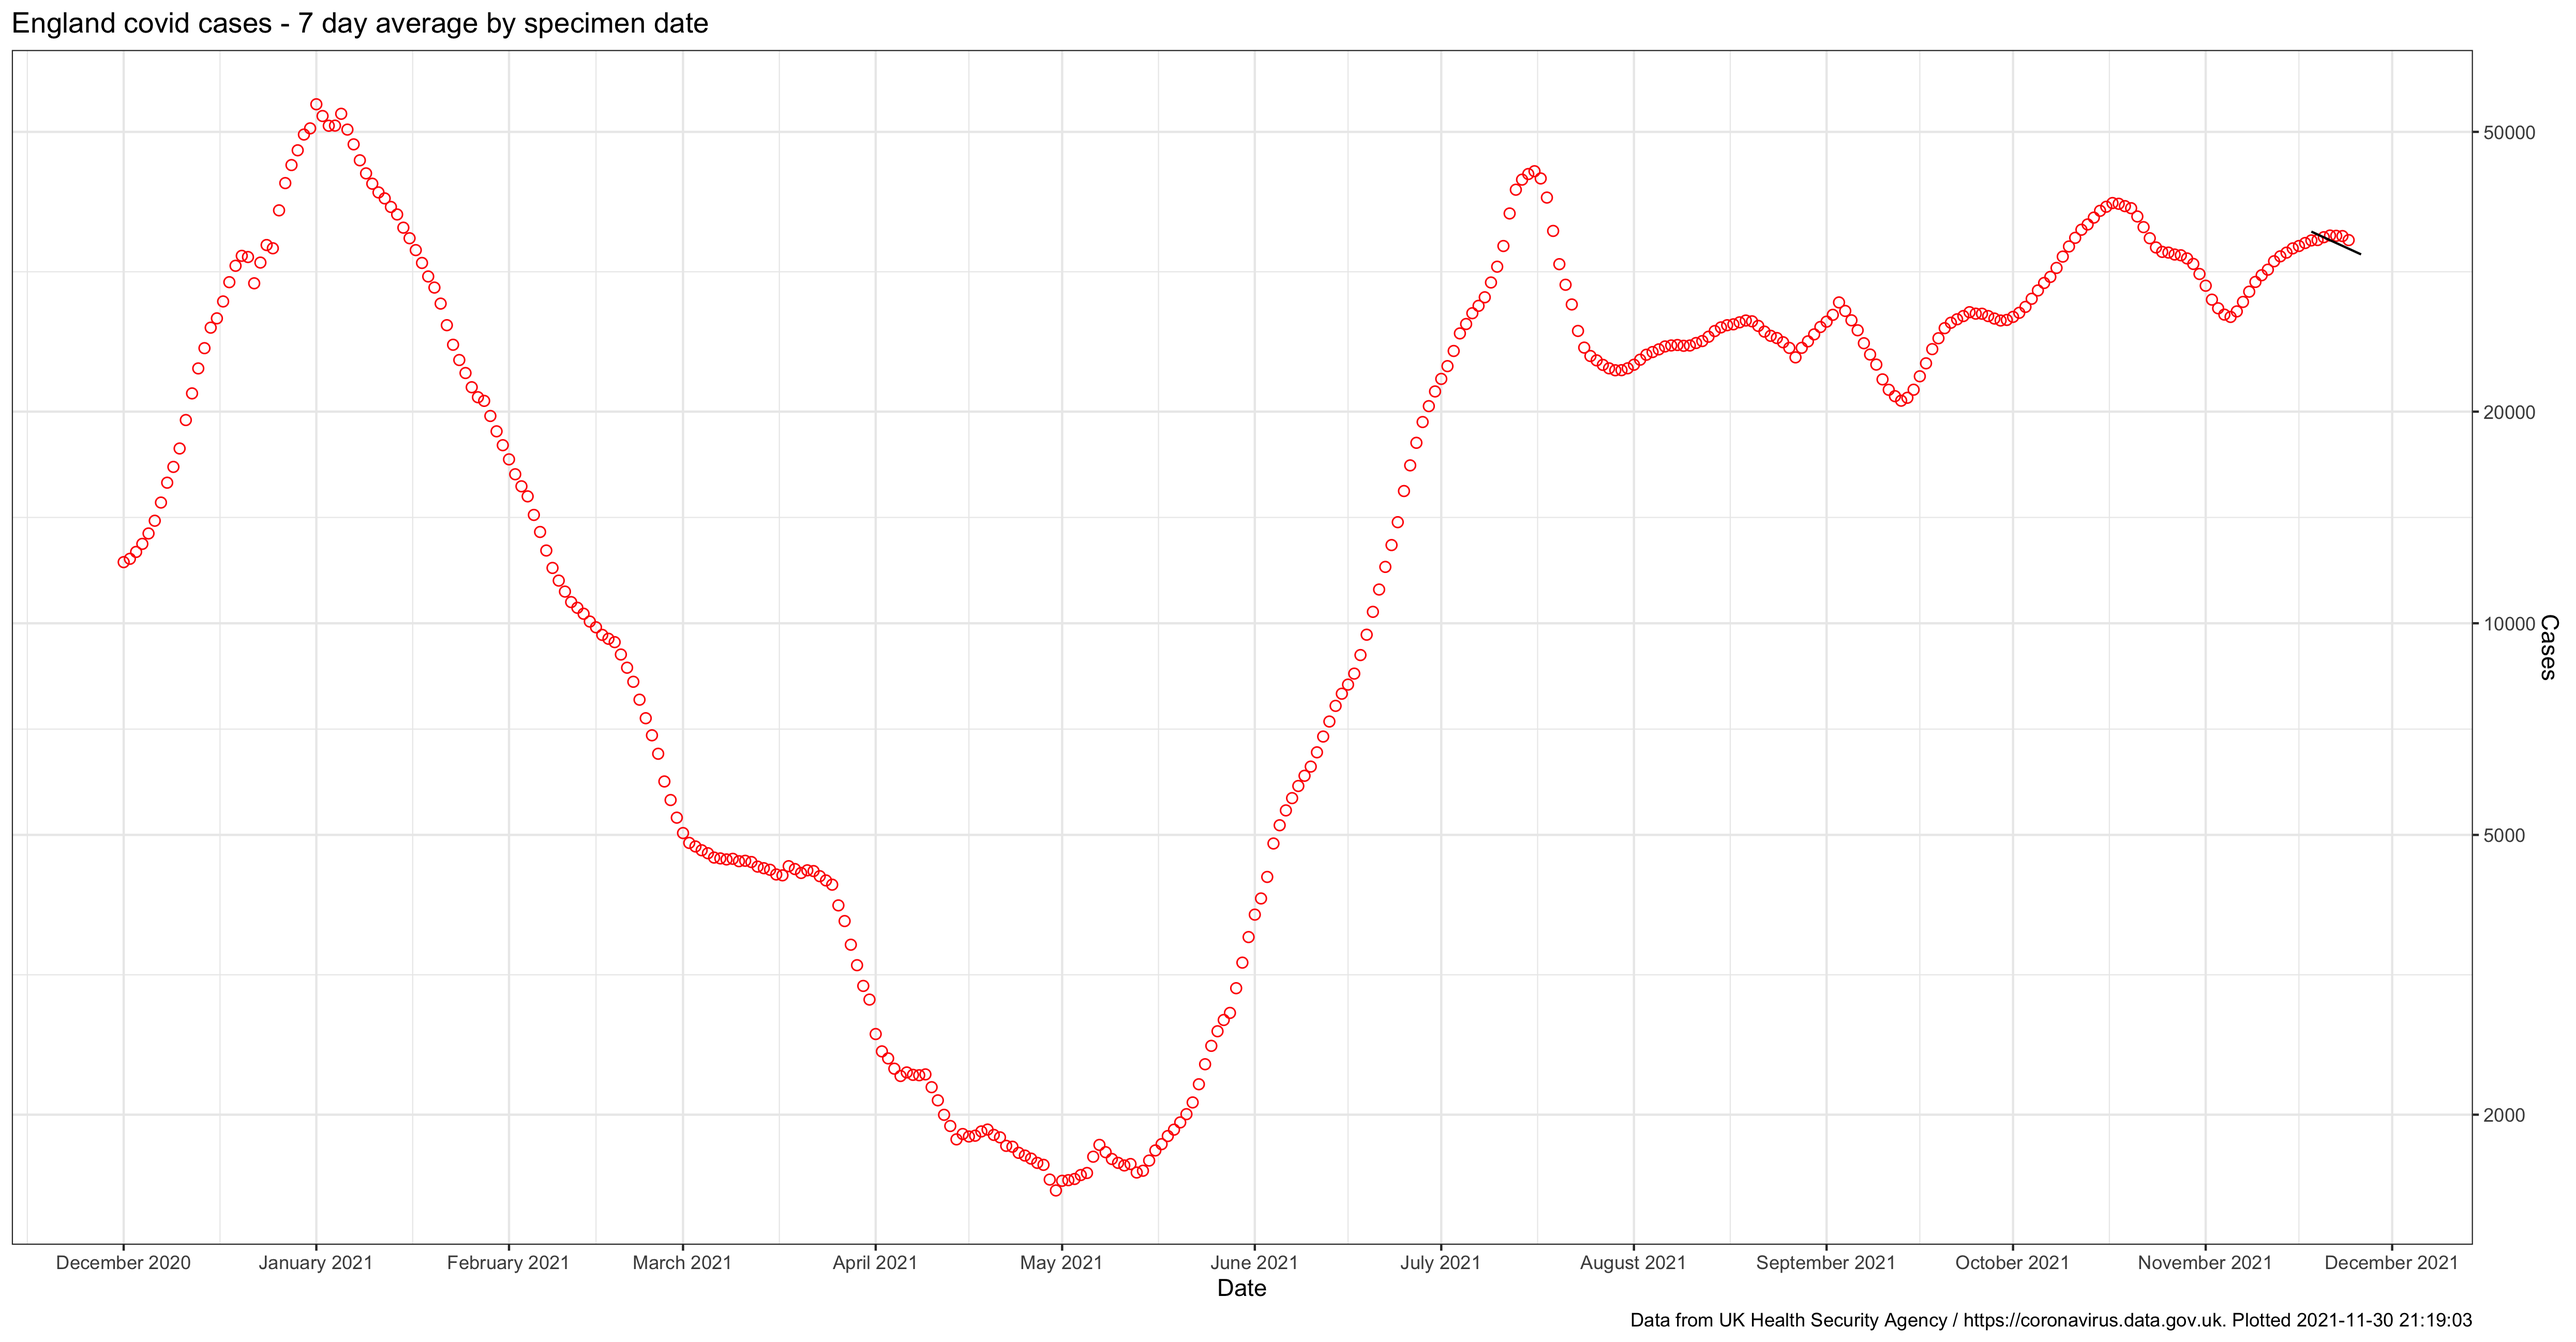
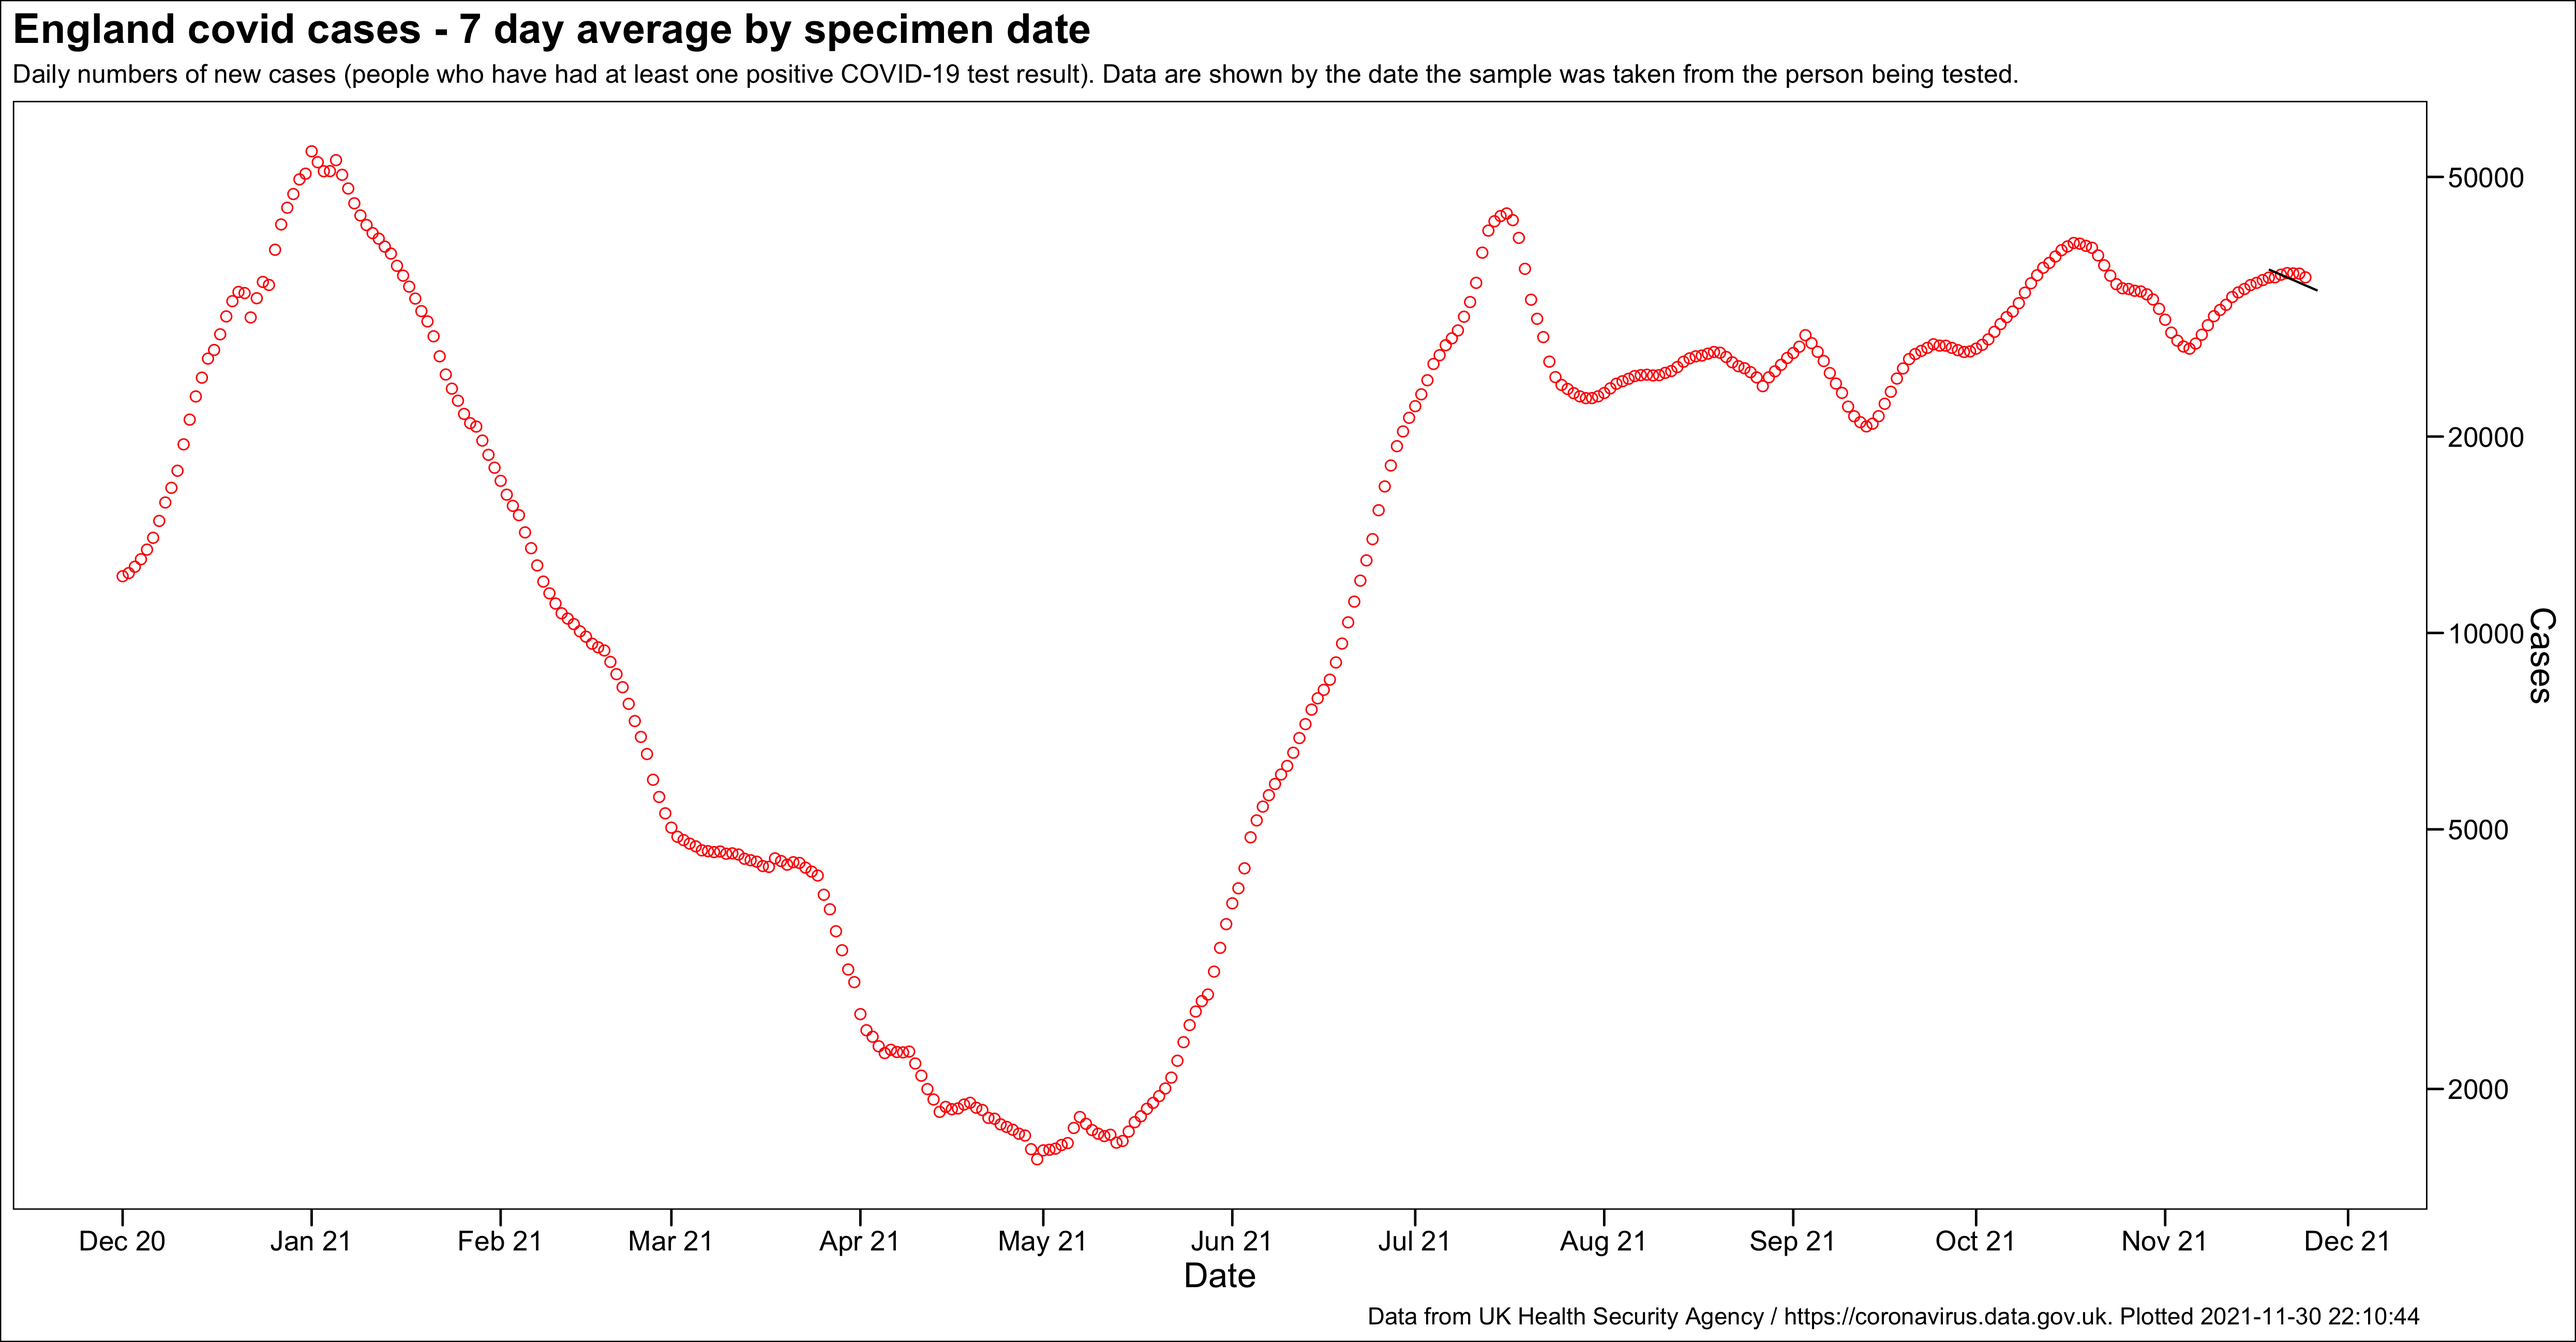
england cases script update

diff --git a/CHANGELOG.md b/CHANGELOG.md
@@ -2,6 +2,11 @@
 
 ## Change log
 
+### Tuesday 30th December 2021
+
+#### Changes to products
+- England daily cases plot updated to show UKHSA describing metric
+
 ### Monday 29th November 2021
 
 #### New products
